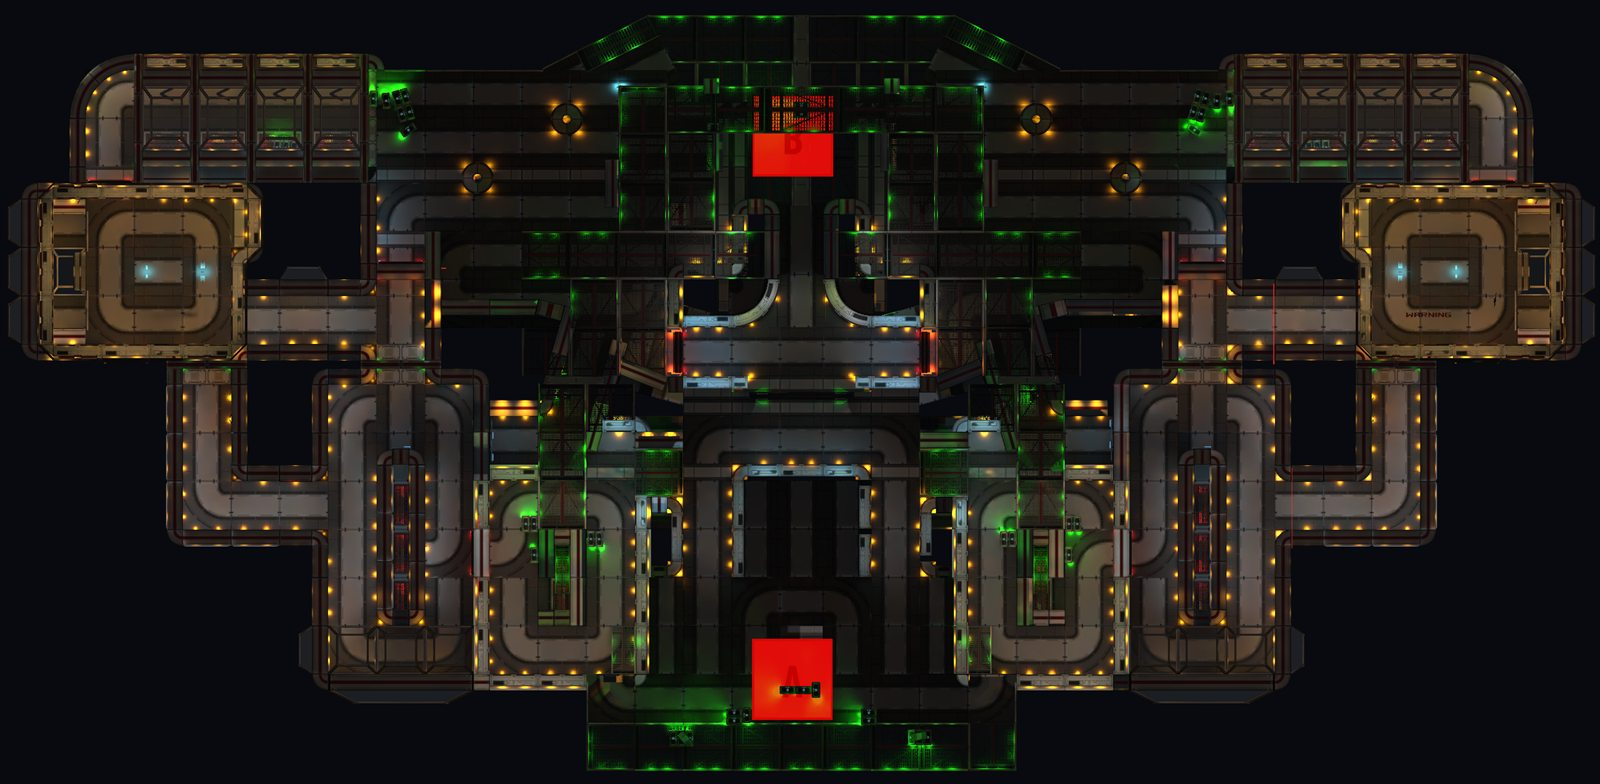
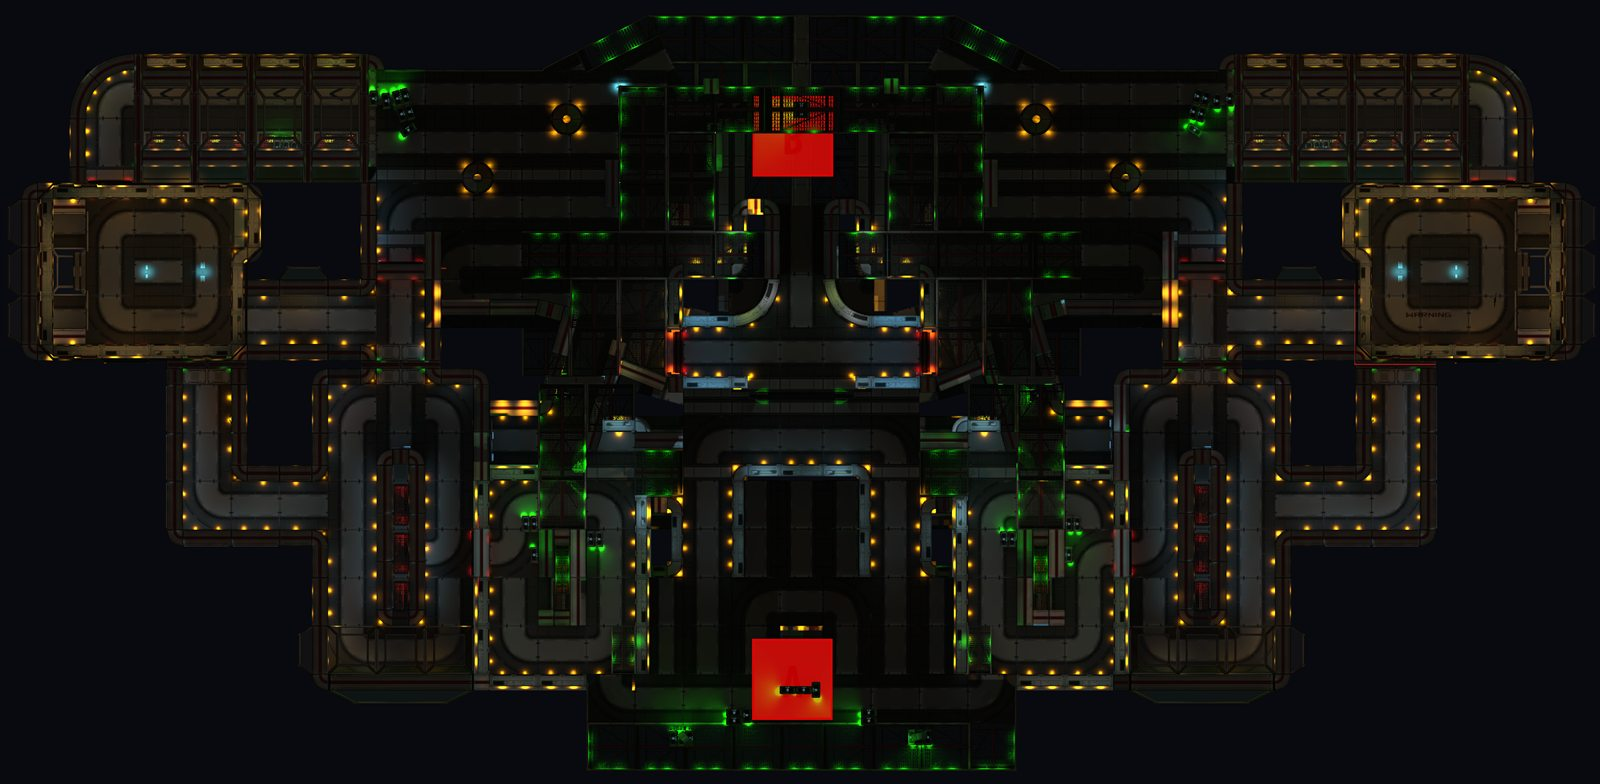
Guía: base atacante cerrada en la sala de control y plano del mapa táctico actualizado
- Muros de la base atacante: el oeste pasa a la puerta de la sala de control y el del suroeste pasa a su
  puerta sur.
- Zona de compra atacante: la sala de control, 30 × 22 m (antes 40 × 43 m).
- Vistas aéreas de la planta baja y del nivel alto sacadas de nuevo de la escena, con las escaleras y las
  paredes actuales.

diff --git a/index.html b/index.html
@@ -1927,15 +1927,15 @@ body.capture,body.capture-ms,body.capture-cr{padding-left:0!important}
     <img id="mapaTacticoImg" src="img/tactico-planta-baja.jpg" alt="Plano de la planta baja del mapa táctico visto desde arriba" width="1600" height="784">
     <svg viewBox="0 0 198 97" preserveAspectRatio="none" aria-hidden="true">
       <g class="capa" data-capa="compra">
-        <rect class="z-at" x="157.7" y="23.3" width="39.7" height="42.6"/>
+        <rect class="z-at" x="167.7" y="23.3" width="29.8" height="21.8"/>
         <rect class="z-de" x="1.1" y="8.6" width="58.6" height="57.3"/>
         <rect class="z-de" x="37.1" y="63.8" width="22.3" height="23.6"/>
-        <text class="t-at" x="177.5" y="63.6" text-anchor="middle">COMPRA ATACANTE</text>
+        <text class="t-at" x="182.5" y="43.4" text-anchor="middle">COMPRA ATACANTE</text>
         <text class="t-de" x="30.4" y="63.6" text-anchor="middle">COMPRA DEFENSORA</text>
         <text class="t-de" x="48.2" y="85.4" text-anchor="middle">FRENTE</text>
       </g>
       <g class="capa" data-capa="muros">
-        <line x1="182" y1="23" x2="187" y2="23"/><line x1="158" y1="35" x2="158" y2="45"/><line x1="160" y1="58" x2="160" y2="68"/>
+        <line x1="182" y1="23" x2="187" y2="23"/><line x1="167.7" y1="35.1" x2="167.7" y2="45.1"/><line x1="167.7" y1="45.1" x2="177.7" y2="45.1"/>
         <line x1="59" y1="64" x2="59" y2="74"/><line x1="45" y1="7" x2="45" y2="22"/><line x1="45" y1="33" x2="55" y2="33"/>
       </g>
       <g class="capa" data-capa="apar">
@@ -1958,7 +1958,7 @@ body.capture,body.capture-ms,body.capture-cr{padding-left:0!important}
   <div class="table-wrap"><table>
     <tr><th>Parte</th><th>Cómo es</th><th>Historia</th></tr>
     <tr><td>Bases</td><td>Atacantes al este y defensores al oeste, con 4 apariciones cada una sobre el piso de la base. La base atacante es la sala de control del kit (<code>Prefab_Control_Room</code>); al norte de cada base hay cuatro hangares (<code>Prefab_Corridor_Large_02</code>). Desde una base no se ve la otra.</td><td>US 213 (CA1, CA2)</td></tr>
-    <tr><td>Zonas de compra</td><td>Una de los atacantes (40 × 43 m) y dos de los defensores: la de la base (59 × 57 m) y la del frente, hacia A (22 × 24 m). Llegan hasta los muros de la base.</td><td>US 213 (CA3)</td></tr>
+    <tr><td>Zonas de compra</td><td>Una de los atacantes, la sala de control (30 × 22 m), y dos de los defensores: la de la base (59 × 57 m) y la del frente, hacia A (22 × 24 m). Llegan hasta los muros de la base.</td><td>US 213 (CA3)</td></tr>
     <tr><td>Muros de la base</td><td>Seis paredes rojas semitransparentes, tres por base, que cierran las salidas durante los 20 s de compra. No se atraviesan, ni con el Trasbordo, y desaparecen al empezar el combate. No son espejo: cada base tiene sus salidas.</td><td>US 190</td></tr>
     <tr><td>Sitio A</td><td>Zona de plantado de 10 × 10 m en el nivel alto (a 6 m), al sur del centro.</td><td>US 131, US 213 (CA4)</td></tr>
     <tr><td>Sitio B</td><td>Zona de plantado de 10 × 10 m en la planta baja, al norte del centro, en el pasillo largo que cruza el mapa.</td><td>US 131, US 213 (CA4)</td></tr>
